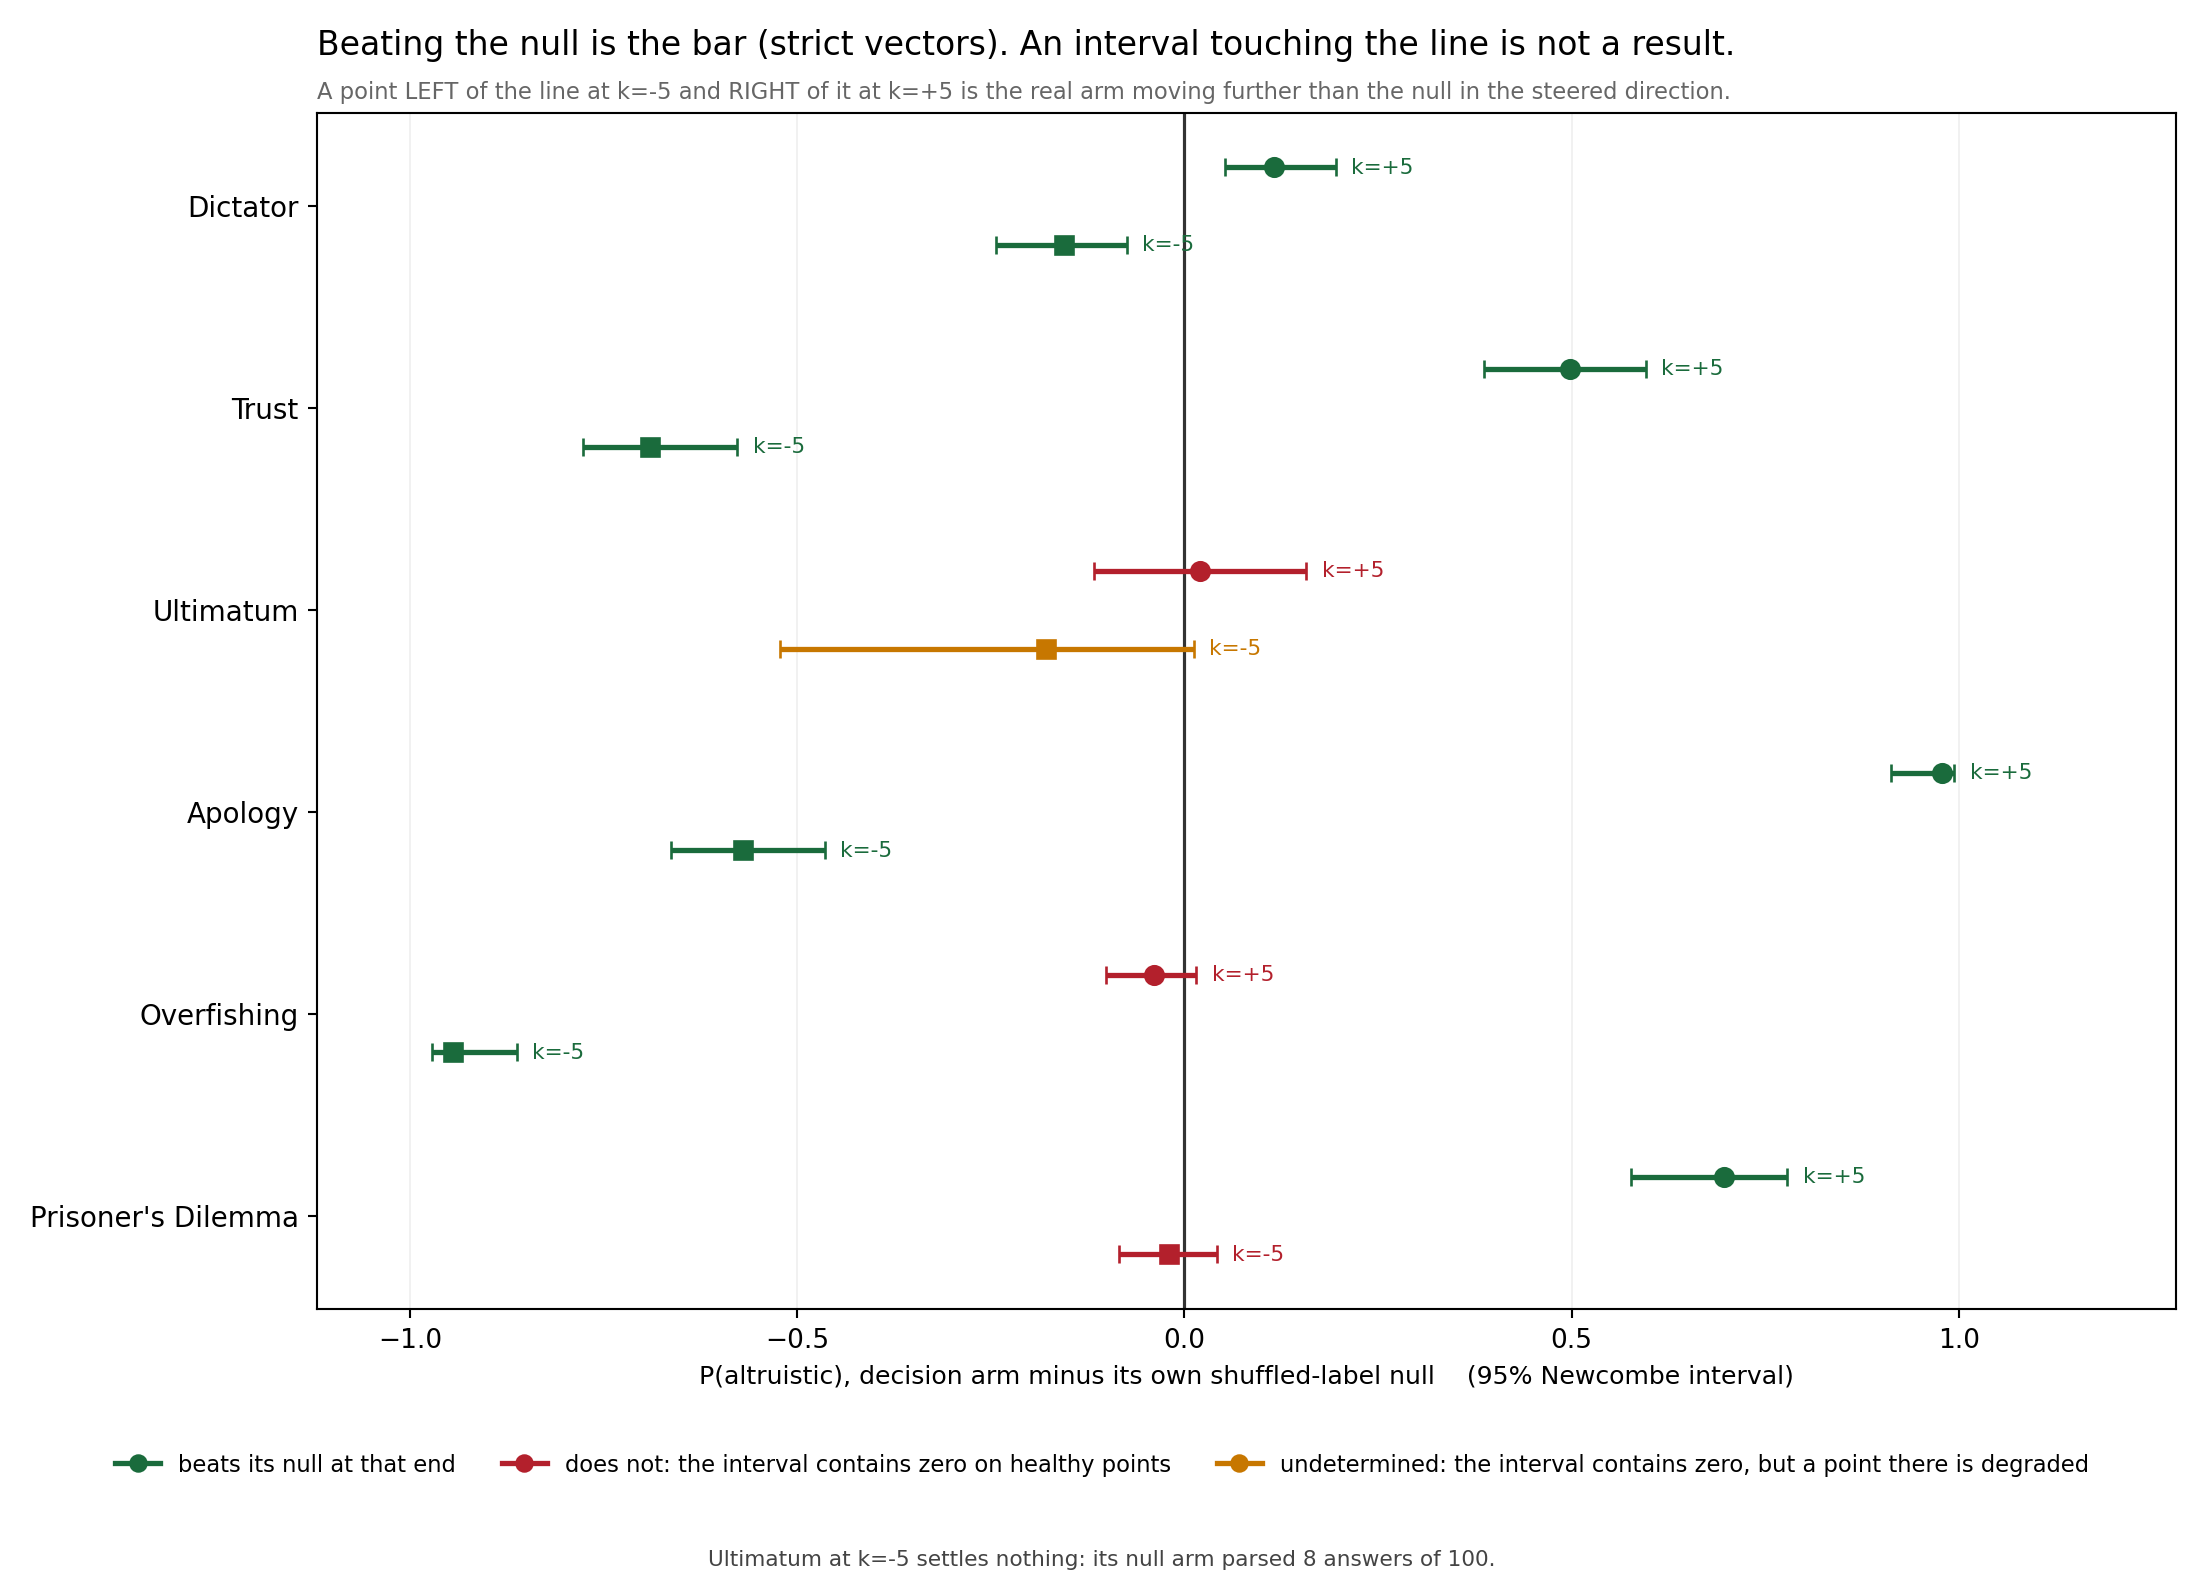
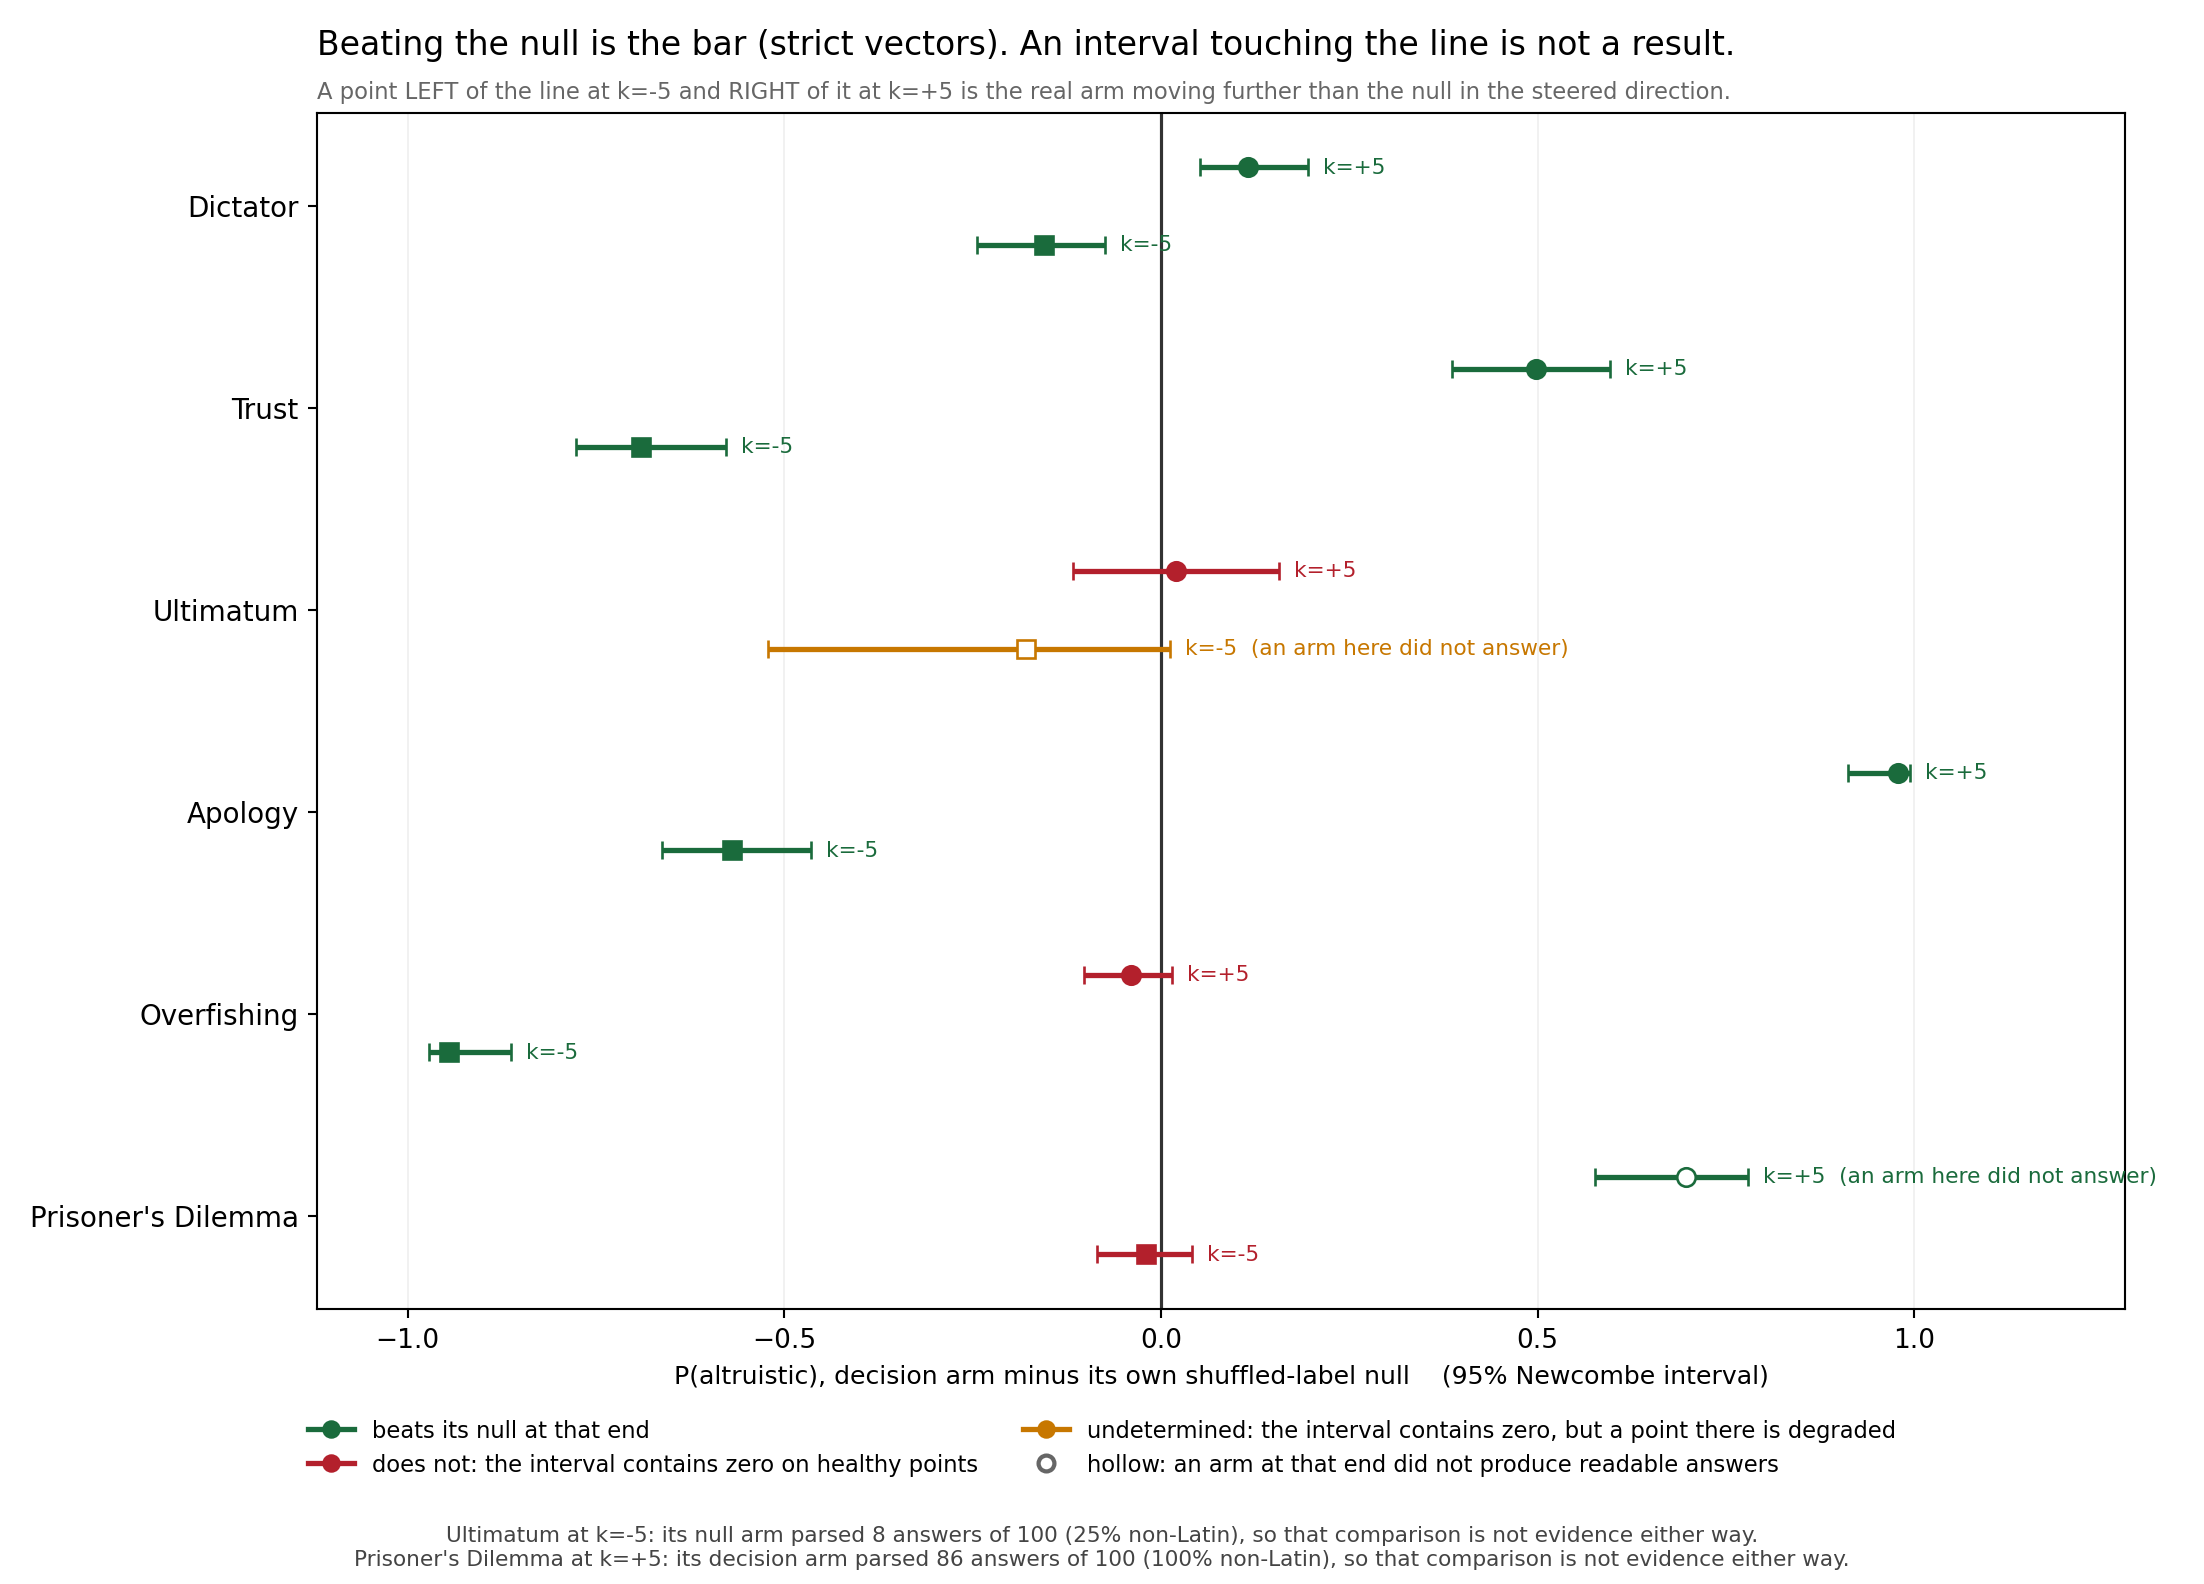
separate what the interval says from whether there was anything to compare
A comparison at an extreme is only evidence when both arms produced readable
decisions there. Two in the strict run do not: the ultimatum's null at k=-5
parsed 8 answers of 100, and the PD's decision arm at k=+5 parsed 86 of which
every one is non-Latin. The first fails to clear zero and the second clears it
wide, and neither is evidence about the direction.

comparison_degraded flags both, orthogonally to the verdict, so no published
verdict moves - the panel headline and the vs-null markers just stop letting a
missing distribution read as a result. Trust's 87-of-100 null and overfishing's
86-of-100 arm are deliberately not flagged: thin is not collapsed.

diff --git a/results/crossgame-per-game-steering/scripts/figures/make_figures.py b/results/crossgame-per-game-steering/scripts/figures/make_figures.py
@@ -55,6 +55,9 @@ DEGENERATE_NON_LATIN = 0.5
 #: Below this the point is drawn hollow with its parsed count: still measured,
 #: measured on less.
 LOW_COVERAGE = 0.90
+#: Below this the point did not produce a distribution at all - most answers never
+#: state a decision - so a comparison against it is not a comparison.
+COLLAPSED_COVERAGE = 0.50
 
 #: Canonical order. A run that covered fewer games draws fewer panels, in this
 #: order; nothing here assumes all six are present.
@@ -151,6 +154,30 @@ def null_verdict(game):
                 degraded = True
         out[side] = "undetermined" if (not excludes and degraded) else "null"
     return out
+
+
+def comparison_degraded(game, side):
+    """Did either arm fail to produce readable decisions at this end?
+
+    Separate from `null_verdict` on purpose. The verdict asks what the interval
+    says; this asks whether there was anything to compare. An arm that answered
+    in Chinese, or that stated an offer in 7 answers of 100, has not produced a
+    distribution, and an interval computed across it - whether or not it clears
+    zero - is not evidence about the direction.
+    """
+    key = "5" if side > 0 else "-5"
+    for arm in ("decision", "shuffled-null"):
+        point = game["arms"][arm]["points"].get(key)
+        if point is None:
+            continue
+        if point_flags(point)[0] or point["parse_coverage"] < COLLAPSED_COVERAGE:
+            return True
+    return False
+
+
+def degraded_ends(game):
+    """The ends whose comparison rests on an arm that did not answer."""
+    return [side for side in (-1, +1) if comparison_degraded(game, side)]
 
 
 def verdict_line(verdict):
@@ -256,15 +283,14 @@ def _draw_arm(ax, series, colour, marker, linestyle, linewidth, label, zorder):
                         fontsize=6.8, color=colour)
 
 
-def _axis_furniture(ax, xlabel=True):
+def _axis_furniture(ax):
     ax.grid(True, alpha=0.22, linewidth=0.6)
     ax.set_xlim(-59, 59)
     ticks = [k * REFERENCE_NORM for k in range(-5, 6)]
     ax.set_xticks(ticks)
     ax.set_xticklabels(["%+d" % k if k else "0" for k in range(-5, 6)], fontsize=8)
-    if xlabel:
-        ax.set_xlabel("k   (unit beta = k x %.4f, the length of the layer-20 edit)"
-                      % REFERENCE_NORM, fontsize=8.5)
+    ax.set_xlabel("k   (unit beta = k x %.4f, the length of the layer-20 edit)"
+                  % REFERENCE_NORM, fontsize=8.5)
 
 
 def _mark_bands(ax, game, arm, policy, ymin, ymax, on_pole_axis):
@@ -337,6 +363,11 @@ def _panel(ax, game_name, game, policy, getter, ylabel, ylim, on_pole_axis):
     ax.text(0.0, 1.085, "%s      ||v||@20 = %.4f" % (LABELS[game_name], norm),
             transform=ax.transAxes, ha="left", va="bottom", fontsize=12.5)
     line, colour = verdict_line(null_verdict(game))
+    ends = degraded_ends(game)
+    if ends:
+        line += "   [%s end: an arm there did not answer]" % (
+            " and ".join("negative" if side < 0 else "positive" for side in ends))
+        colour = UNDET if colour == GOOD else colour
     ax.text(0.0, 1.015, line, transform=ax.transAxes, ha="left", va="bottom",
             fontsize=9.0, color=colour, weight="bold")
     _axis_furniture(ax)
@@ -413,26 +444,28 @@ def _annotate_a_clean_null(axes, analysis, games, policy):
                     arrowprops=dict(arrowstyle="->", color=BAD, lw=1.1))
 
 
-def _undetermined_note(analysis, games):
-    """Name every undetermined comparison and the count that made it one.
+def _comparison_notes(analysis, games):
+    """Name every end whose comparison rests on an arm that did not answer.
 
-    An interval that fails to clear zero is not a null when the arm under it
-    barely parsed, and a reader needs the number to tell the two apart.
+    Both the interval that fails to clear zero and the one that clears it wide
+    belong here: what disqualifies them is the same missing distribution.
     """
     lines = []
     for name in games:
         game = analysis["games"][name]
-        for side, key in ((-1, "-5"), (+1, "5")):
-            if null_verdict(game)[side] != "undetermined":
+        for side in (-1, +1):
+            if not comparison_degraded(game, side):
                 continue
-            worst = min((game["arms"][arm]["points"][key]
-                         for arm in ("decision", "shuffled-null")),
-                        key=lambda point: point["n_parsed"])
-            arm = ("decision" if worst is game["arms"]["decision"]["points"][key]
-                   else "null")
-            lines.append("%s at k=%+d settles nothing: its %s arm parsed %d "
-                         "answers of %d." % (LABELS[name], 5 * side, arm,
-                                             worst["n_parsed"], worst["n_rows"]))
+            key = "5" if side > 0 else "-5"
+            arm, worst = min(
+                (("decision", game["arms"]["decision"]["points"][key]),
+                 ("null", game["arms"]["shuffled-null"]["points"][key])),
+                key=lambda pair: pair[1]["n_parsed"])
+            lines.append(
+                "%s at k=%+d: its %s arm parsed %d answers of %d (%.0f%% non-Latin), "
+                "so that comparison is not evidence either way."
+                % (LABELS[name], 5 * side, arm, worst["n_parsed"], worst["n_rows"],
+                   100 * worst["degeneracy"]["share_with_non_latin_script"]))
     return "\n".join(lines)
 
 
@@ -498,19 +531,23 @@ def figure_vs_null(analysis, games, policy, label, out_path):
         verdict = null_verdict(game)
         for key, side in (("5", +1), ("-5", -1)):
             contrast = game["decision_vs_null"][key]["altruistic_decision_minus_null"]
-            rows.append((y, side, contrast, verdict[side]))
+            rows.append((y, side, contrast, verdict[side],
+                         comparison_degraded(game, side)))
             y -= 1.0
         y -= 0.6
 
-    for pos, side, contrast, state in rows:
+    for pos, side, contrast, state, degraded in rows:
         colour = colours[state]
         ax.errorbar([contrast["diff"]], [pos],
                     xerr=[[contrast["diff"] - contrast["lo"]],
                           [contrast["hi"] - contrast["diff"]]],
                     color=colour, marker="o" if side > 0 else "s", capsize=3.5,
-                    markersize=7, linewidth=2.0, zorder=4)
-        ax.text(contrast["hi"] + 0.02, pos, "k=%+d" % (5 * side), va="center",
-                fontsize=8.2, color=colour)
+                    markersize=7, linewidth=2.0, linestyle="none",
+                    markerfacecolor="white" if degraded else colour, zorder=4)
+        ax.text(contrast["hi"] + 0.02, pos,
+                "k=%+d%s" % (5 * side, "  (an arm here did not answer)"
+                             if degraded else ""),
+                va="center", fontsize=8.2, color=colour)
 
     ax.axvline(0, color="#333333", linewidth=1.2, zorder=2)
     ax.set_yticks([rows[2 * i][0] - 0.5 for i in range(len(games))])
@@ -534,9 +571,12 @@ def figure_vs_null(analysis, games, policy, label, out_path):
         Line2D([], [], color=UNDET, marker="o", linewidth=2,
                label="undetermined: the interval contains zero, but a point there "
                      "is degraded"),
-    ], loc="lower center", ncol=3, fontsize=8.6, frameon=False,
+        Line2D([], [], color=GREY, marker="o", markerfacecolor="white",
+               linestyle="none", markeredgewidth=1.6,
+               label="hollow: an arm at that end did not produce readable answers"),
+    ], loc="lower center", ncol=2, fontsize=8.6, frameon=False,
         bbox_to_anchor=(0.5, 0.055))
-    note = _undetermined_note(analysis, games)
+    note = _comparison_notes(analysis, games)
     if note:
         fig.text(0.5, 0.012, note, ha="center", fontsize=8.2, color="#444444")
     fig.tight_layout(rect=(0, 0.075 + (0.03 if note else 0.0), 1, 1))

diff --git a/results/crossgame-per-game-steering/scripts/tests/test_figures.py b/results/crossgame-per-game-steering/scripts/tests/test_figures.py
@@ -181,6 +181,34 @@ def test_a_significant_result_on_a_thin_point_still_counts():
     assert make_figures.null_verdict(game)[-1] == "beats"
 
 
+# --- a comparison with nothing behind it --------------------------------------
+
+def test_a_comparison_against_an_arm_that_answered_in_another_language_is_degraded():
+    # true even when the interval clears zero: the PD's own k=+5 decision arm
+    game = _game((-0.02, False), (+0.697, True),
+                 decision={"-5": _point(), "5": _point(coverage=0.86, non_latin=1.0)})
+    assert make_figures.comparison_degraded(game, +1)
+    assert not make_figures.comparison_degraded(game, -1)
+    assert make_figures.degraded_ends(game) == [+1]
+
+
+def test_a_comparison_against_an_arm_that_barely_parsed_is_degraded():
+    game = _game((-0.179, False), (+0.021, False),
+                 null={"-5": _point(coverage=0.08), "5": _point()})
+    assert make_figures.degraded_ends(game) == [-1]
+
+
+def test_a_merely_thin_arm_does_not_degrade_the_comparison():
+    # Trust's null resolved 87 of 100 and the difference is overwhelming
+    game = _game((-0.691, True), (+0.498, True),
+                 null={"-5": _point(coverage=0.87), "5": _point()})
+    assert make_figures.degraded_ends(game) == []
+
+
+def test_two_healthy_arms_leave_the_comparison_alone():
+    assert make_figures.degraded_ends(_game((-0.5, True), (+0.5, True))) == []
+
+
 def test_a_game_that_clears_the_bar_nowhere_says_so_in_its_own_headline():
     line, colour = make_figures.verdict_line({-1: "null", +1: "null"})
     assert "does NOT beat its own null at either end" == line
@@ -244,3 +272,12 @@ def test_the_prisoners_dilemmas_defensible_band_is_the_one_the_report_claims(ana
     arm = analysis["games"]["prisoners_dilemma"]["arms"]["decision"]
     assert make_figures.supported_range(arm, +1) == (2, 3)
     assert make_figures.supported_range(arm, -1) is None
+
+
+def test_only_the_two_ends_the_report_qualifies_are_degraded_comparisons(analysis):
+    """README section 3 qualifies exactly these two, for exactly this reason."""
+    found = []
+    for game in make_figures.GAMES:
+        for side in make_figures.degraded_ends(analysis["games"][game]):
+            found.append((game, side))
+    assert sorted(found) == [("prisoners_dilemma", +1), ("ultimatum", -1)]
